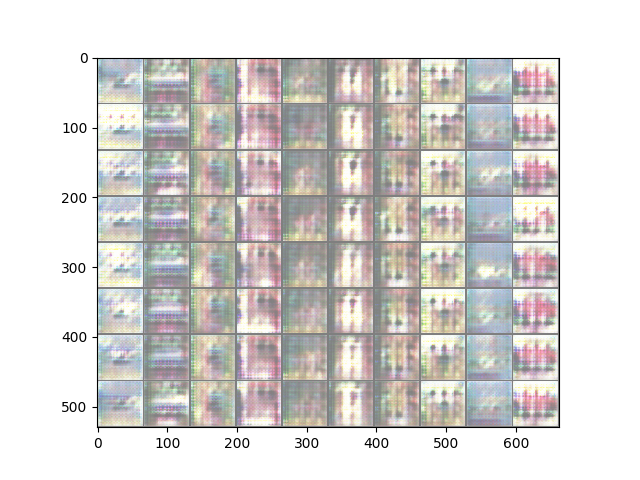
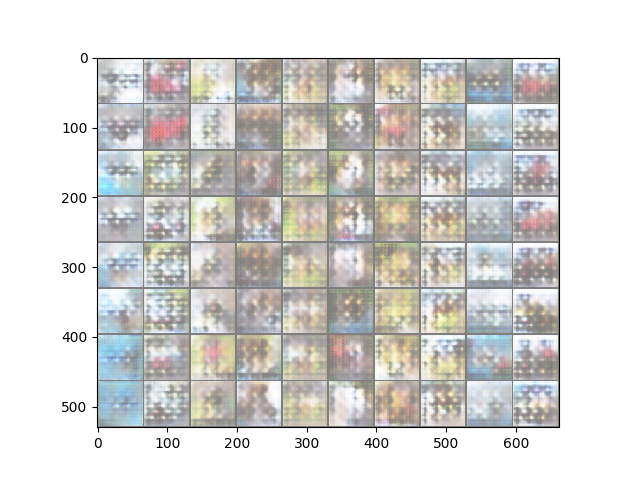
trained models

diff --git a/network/network_iq.py b/network/network_iq.py
@@ -1,0 +1,100 @@
+import torch
+import torch.nn as nn
+import numpy as np
+
+
+class Flatten(torch.nn.Module):
+    def forward(self, x):
+        batch_size = x.shape[0]
+        return x.view(batch_size, -1)
+
+
+class Generator(nn.Module):
+	def __init__(self, in_channels):
+		super().__init__()
+		# Input is noise vector concatenated with lable information
+		self.in_channels = in_channels
+		self.model_znet = nn.Sequential(
+			nn.ConvTranspose2d(self.in_channels, 1024, 4, 1, 0),
+			nn.BatchNorm2d(1024),
+			nn.ReLU(),
+
+			nn.ConvTranspose2d(1024, 512, 4, 2, 1),
+			nn.BatchNorm2d(512),
+			nn.ReLU()			
+		)
+		self.model_decoder = nn.Sequential(
+			nn.ConvTranspose2d(512, 256, 4, 2, 1),
+			nn.BatchNorm2d(256),
+			nn.ReLU(),
+
+			nn.ConvTranspose2d(256, 128, 4, 2, 1),
+			nn.BatchNorm2d(128),
+			nn.ReLU(),
+
+			nn.ConvTranspose2d(128, 64, 4, 2, 1),
+			nn.BatchNorm2d(64),
+			nn.ReLU(),
+
+			nn.ConvTranspose2d(64, 64, 3, 1, 1),
+			nn.BatchNorm2d(64),
+			nn.ReLU(),
+
+			nn.ConvTranspose2d(64, 3, 4, 2, 1),
+			nn.Sigmoid()
+		)
+		# output is 128 x 128 images
+	def forward(self, x, only_decoder=False):
+		if only_decoder:
+			out_128 = self.model_decoder(x)
+			out = nn.AvgPool2d(2,2)(out_128)
+			return out
+		else:
+			# reshape x to batch_size x num_channels x 1 x 1
+			batch_size = x.shape[0]
+			num_channels = x.shape[1]
+			x = x.view(batch_size, num_channels, 1, 1)
+			out_128 = self.model_znet(x)
+			out_128 = self.model_decoder(out_128)
+			out = nn.AvgPool2d(2,2)(out_128)
+			return out, out_128
+
+class Discriminator(nn.Module):
+	def __init__(self, out_channels):
+		super().__init__()
+		# Input is 3 x 64 x 64 images
+		self.out_channels = out_channels
+		self.model_encoder = nn.Sequential(
+			nn.Conv2d(3, 128, 4, 2, 1),
+			nn.LeakyReLU(0.2),
+
+			nn.Conv2d(128, 128, 3, 1, 1),
+			nn.BatchNorm2d(128),
+			nn.LeakyReLU(0.2),
+
+			nn.Conv2d(128, 256, 4, 2, 1),
+			nn.BatchNorm2d(256),
+			nn.LeakyReLU(0.2),
+
+			nn.Conv2d(256, 512, 4, 2, 1),
+			nn.BatchNorm2d(512),
+			nn.LeakyReLU(0.2)
+		)
+		self.model_cls = nn.Sequential(
+			nn.Conv2d(512, 1024, 4, 2, 1),
+			nn.BatchNorm2d(1024),
+			nn.LeakyReLU(0.2),
+
+			Flatten(),
+
+			nn.Linear(4 * 4 * 1024, out_channels),
+			nn.Sigmoid()
+		)
+	def forward(self, x, only_encoder=False):
+		if only_encoder:
+			return self.model_encoder(x)
+		else:
+			out = self.model_encoder(x)
+			out = self.model_cls(out)
+			return out
+			

diff --git a/models/train_iq.py b/models/train_iq.py
@@ -3,7 +3,7 @@ import numpy as np
 import sys
 sys.path.insert(1, '../network')
 from data_loader_cifar10 import get_dataset
-from network import Generator, Discriminator
+from network_iq import Generator, Discriminator
 import torch.nn as nn
 import matplotlib.pyplot as plt
 import torchvision.utils as vutils
@@ -54,7 +54,7 @@ for index in range(init_epoch, max_epoch):
 		gen_inp = torch.cat((z, iny), dim=1)
 
 		pred_real = dis.forward(x_n, only_encoder=False)
-		fake_imgs = gen.forward(gen_inp, only_decoder=False)
+		fake_imgs, fake_imgs_128 = gen.forward(gen_inp, only_decoder=False)
 		pred_fake = dis.forward(fake_imgs, only_encoder=False)
 
 		# Define discriminator loss and update discriminator
@@ -80,21 +80,21 @@ for index in range(init_epoch, max_epoch):
 		print('Epoch:{}, Iter:{}, G_loss={}, D_loss={}'.format(index, i, loss_gen.item(), loss_dis.item()))
 
 	if index % save_epoch == 0 or index == max_epoch -1:
-		path = "../saved_models/artgan_" + str(index)
+		path = "../saved_models/artgan_iq" + str(index)
 		torch.save(gen.state_dict(), path)
 
 		# Save images from generator
 		with torch.no_grad():
-			samples = fake_imgs.detach().cpu()
+			samples = fake_imgs_128.detach().cpu()
 		img_list = vutils.make_grid(samples, nrow=10, padding=2).numpy()
 		plt.imshow(((np.transpose(img_list, (1,2,0)) + 1.) * 127.5).astype(int), interpolation="nearest")
-		path = "../gen_images/artgan" + str(index) + ".png"
+		path = "../gen_images/artgan_iq" + str(index) + ".png"
 		plt.savefig(path)
 
 
-with open('gen_loss_artgan.txt', 'w') as f:
+with open('gen_loss_artgan_iq.txt', 'w') as f:
     for item in loss_gen:
         f.write("%s\n" % item)
-with open('dis_loss_artgan.txt', 'w') as f:
+with open('dis_loss_artgan_iq.txt', 'w') as f:
     for item in loss_dis:
         f.write("%s\n" % item)

diff --git a/models/train_ae.py b/models/train_ae.py
@@ -16,8 +16,8 @@ max_epoch = 100
 store_image_epoch = 10
 save_epoch = 10
 
-lr = 0.001
-batch_size = 100
+lr = 0.0002
+batch_size = 128
 zdim = 100
 n_classes = 10
 
@@ -51,8 +51,8 @@ for index in range(init_epoch, max_epoch):
 		# iny - one-hot encoded tensor for class labels
 		iny = torch.tensor(np.tile(np.eye(n_classes, dtype=np.float32), [int(batch_size / n_classes + 1), 1])[:batch_size, :], device=device)
 		gen_inp = torch.cat((z, iny), dim=1)
-		y_fake = torch.tensor(np.full((1, batch_size), n_classes + 1), device=device)
-		y_fake_one_hot = one_hot(y.to(torch.int64), n_classes + 1)
+		y_fake = torch.tensor(np.full((1, batch_size), n_classes), device=device)
+		y_fake_one_hot = one_hot(y_fake.to(torch.int64), n_classes + 1)
 
 		pred_n, recons_n = dis.forward(x_n)
 		samples = gen.forward(gen_inp)
